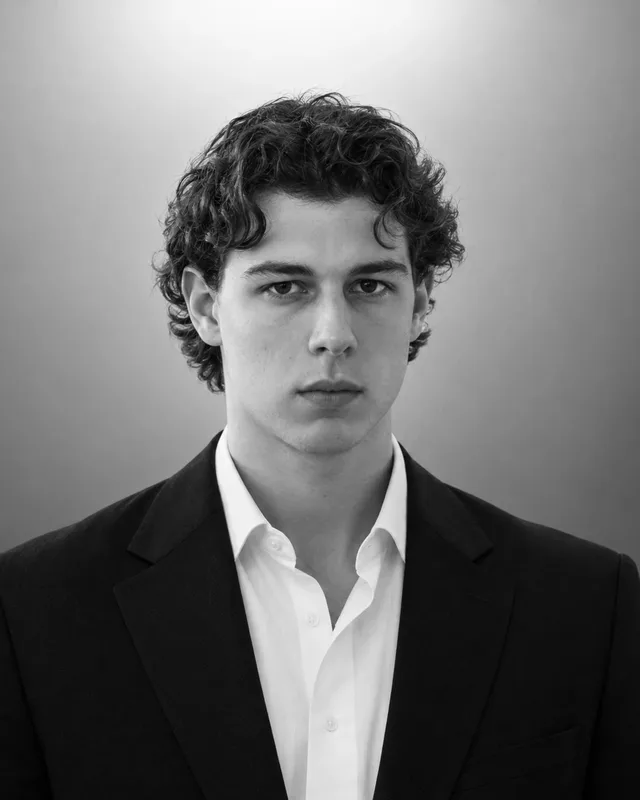
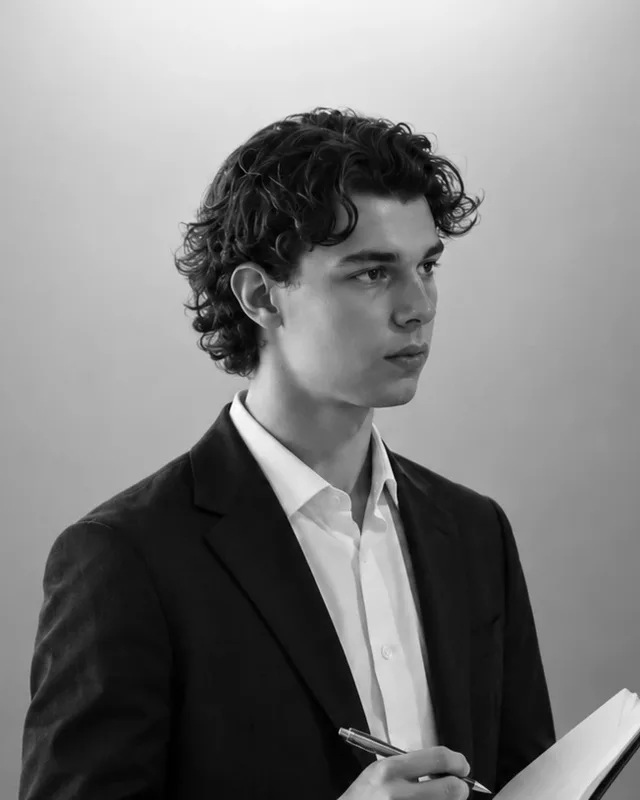
Replace Bruno's portrait with his fourth frame, zoomed to match the row
The widest master in the set: standing three-quarter, holding a notebook,
looking off-camera, where the other four are tight head-and-shoulders. At
zoom 1 his head filled about a quarter of the card against their third.

zoom 0.65 with faceX 0.486 is the tightest crop that still clears 640px wide
(652x815 before the resize), and it is what puts his head on the others'
scale. It also takes most of the notebook out of frame. Picked against
full-row previews at 0.65 and 0.72 rather than in isolation — 0.72 kept more
of the notebook and left his head visibly smaller than everyone else's.

TWO THINGS NO CROP CAN FIX, both flagged in the script and README rather than
quietly shipped: he is the only one of the five not looking at the lens, and
a corner of the notebook still sits in the bottom of the card.

Also corrects an error I introduced in 55e8f65. That commit described
Tatjana's zoom as "the opposite reason" to Bernardo's — hers widening a tight
frame, his tightening a wide one. That is wrong: every zoom in this file is
below 1 and every one of them crops IN, because the failure they fix is
always the same, a master shot wider than the head-and-shoulders standard.
Three of the five now zoom and none zooms out. The note now says so, and says
that Tatjana's is the only one costing resolution — her master is 800x800
where the generated ones are 1254.

The provenance list is a four-pass sequence now: backdrop, then dress, then
crop distance twice.

diff --git a/README.md b/README.md
@@ -585,7 +585,9 @@ node scripts/optimize-team-photos.mjs
 
 **Bernardo and Bruno were then regenerated a second time**, later the same day, and the reason generalises: the first pass matched the *backdrop* across the set but not the *dress*. Bernardo came back in a white shirt with a chain and sunglasses, Bruno in a dark open-collar shirt at a three-quarter turn — four studio portraits that still read as four different occasions. Both came back square-on in a dark jacket over a white shirt, which is what Lev and Lucas were already wearing.
 
-**Bruno was replaced a third time as well**, and that one needed no re-tuning — square-on, dark jacket, white shirt, head centroid at 0.491, so `faceX: 0.5` carried straight over. Worth noting for sign-off that likeness is not stable across passes: he wore glasses in his second frame and does not in his third.
+**Bruno was then replaced twice more.** His third needed no re-tuning — square-on, head centroid at 0.491, so `faceX: 0.5` carried straight over. His fourth is the widest master in the set: standing, holding a notebook, looking off-camera. `zoom: 0.65` is the tightest crop that still clears 640px wide, and it is what puts his head on the others' scale; it also takes most of the notebook out, though a corner stays. **Two things no crop can fix and both are worth a look before launch** — he is the only one of the five not looking at the lens, and that notebook corner sits in the bottom of the card.
+
+Worth noting for sign-off that likeness is not stable across passes: he wore glasses in his second frame and does not in his third or fourth.
 
 **Bernardo was also replaced a third time, and that is why `zoom` is no longer Tatjana's alone.** His third frame is a seated three-quarter shot — leaning on a table, hand to chin — where the other four are tight head-and-shoulders. At `zoom: 1` his head filled about a quarter of the card against their third, the table edge showed along the bottom, and he read as a different shoot again. `zoom: 0.88` with `faceX: 0.43` crops in to head-and-shoulders and puts him back on their scale, chosen against a contact sheet with Bruno beside him rather than by eye alone. It costs no resolution: 0.88 of 1254 still lands above the 640px output.
 
@@ -597,7 +599,9 @@ The **name-to-file mapping for the originals was read, not guessed.** They arriv
 
 **Every output is greyscale**, set in the script rather than by a CSS filter on the page, so what ships is what renders and it keeps applying if a master is replaced.
 
-**Only the horizontal is cropped, except for Tatjana.** The four re-shoots are square, so top and bottom stay whole and `faceX` decides which side loses more of the trim. Lev, Bruno and Lucas sit at `0.5`: the centroid of the dark pixels in each master's hair band (y 15–32%) measures 0.485 / 0.491 / 0.539, so a centred crop puts those three within a couple of percent of the middle. Bernardo is the exception and has now had three different sets of numbers — 0.51, then 0.5, then the zoomed crop above. **Re-measure when a master changes rather than carrying its old number over**; every value in that table has been wrong at least once because someone did. Hers is a wider shot: her head fills about 32% of the frame against the others' ~40%, so at the same crop she read as standing further back than everyone else, which was the last thing breaking the row. **`zoom` exists for her alone.** 0.8 pulls her in to match, and it costs resolution rather than inventing any — the crop lands at 512×640 and `withoutEnlargement` leaves it there, about 6% under the card's 2× DPR ideal. A re-shoot of hers would close that properly; upscaling would only fake it.
+**Only the horizontal is cropped, except for Tatjana.** The four re-shoots are square, so top and bottom stay whole and `faceX` decides which side loses more of the trim. Lev and Lucas sit at a plain `0.5`: the centroid of the dark pixels in each master's hair band (y 15–32%) measures 0.485 and 0.539, which a centred crop puts within a couple of percent of the middle. **The other three all zoom, and every `zoom` in this file crops *in* — there is no entry that zooms out**, because the failure it fixes is always the same one, a master shot wider than the head-and-shoulders standard the set is built on. (An earlier revision of this note called Tatjana's "the opposite reason" to Bernardo's. That was wrong.)
+
+Bernardo and Bruno are on their third and fourth masters, and between them they have carried five different sets of numbers. **Re-measure when a master changes rather than carrying its old number over**; every value in that list has been wrong at least once because someone did. Hers is a wider shot: her head fills about 32% of the frame against the others' ~40%, so at the same crop she read as standing further back than everyone else, which was the last thing breaking the row. **`zoom` exists for her alone.** 0.8 pulls her in to match, and it costs resolution rather than inventing any — the crop lands at 512×640 and `withoutEnlargement` leaves it there, about 6% under the card's 2× DPR ideal. A re-shoot of hers would close that properly; upscaling would only fake it.
 
 **If a replaced photo does not appear, the dev image cache is at `.next/dev/cache/images`.** Not `.next/cache/images` — Next 16 moved it, and the old path no longer exists, so deleting it silently does nothing. The optimizer keys on `(url, width, quality)` and the URL does not change when the file behind it does, so re-running this script leaves the dev server serving the previous crop indefinitely. **Restarting `next dev` does not clear it either** — the cache is on disk, not in memory. `rm -rf .next/dev/cache/images` does. The tell is the served image's dimensions: fetch `/_next/image?url=%2Fteam%2F<slug>.webp&w=640&q=75` and compare against the file, because a stale entry keeps the old source's aspect.
 
